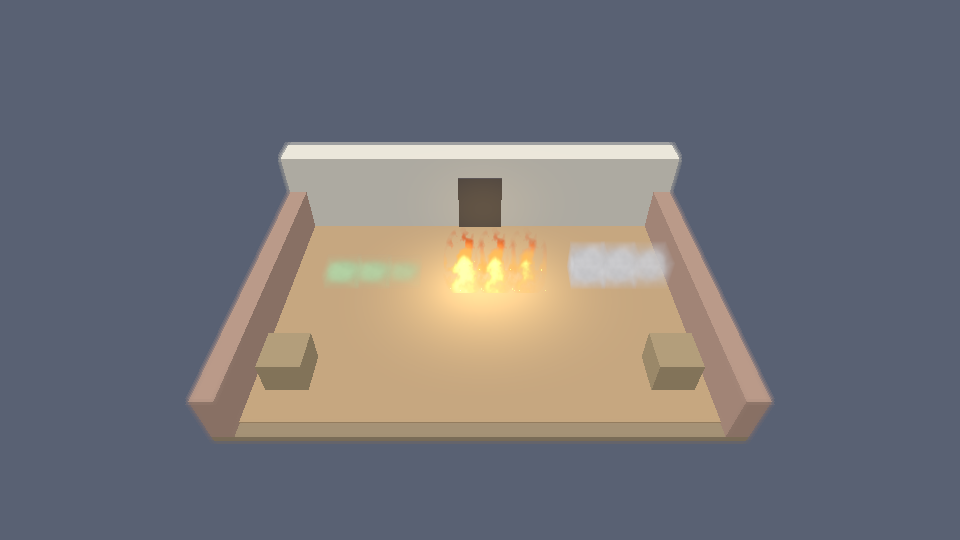
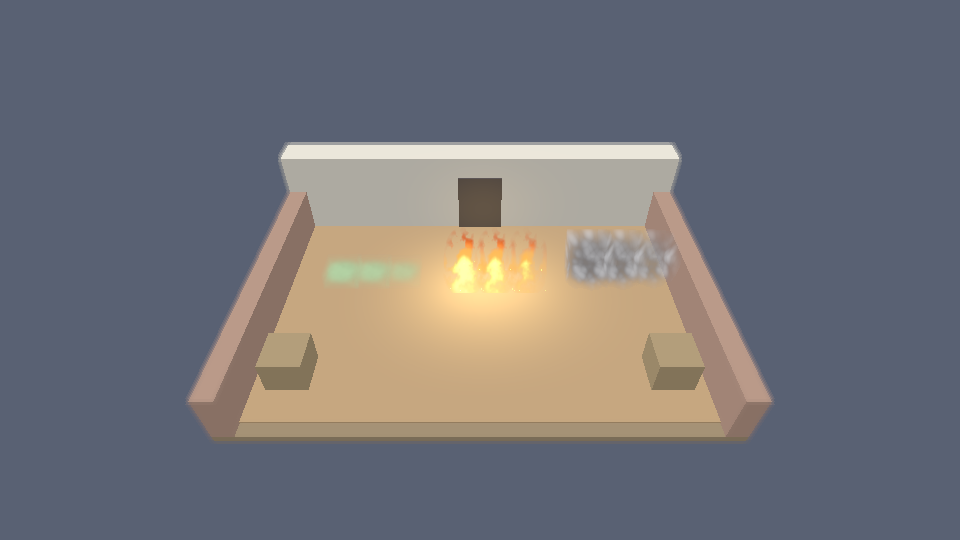
Phase 2b smoke redo: stylized voronoi puffs (Joey's reference shader)
Technique after Loop-Box's Stylized Smoke Shader (godotshaders.com,
CC0): voronoi noise, alpha curve, color gradient, flat unlit look.
The source uses three texture maps on particle meshes; the field
pass binds no textures (gate 2b.2), so all three become procedural
math in WGSL, mirrored in the CPU reference (voronoi_f1,
smoke_color): two-scale cellular puffs that grow as they rise,
smoothstep alpha-curve remap with a cutout edge, dark-base to
light-top flat gradient, billow silhouette. Smoke column added
over the fire showcase blaze. fx: 12 lib + 7 gate tests pass;
workspace 91/91.

Changed region(s): [[0.5625, 0.4148, 0.7188, 0.5333]]

diff --git a/crates/fx/src/density.rs b/crates/fx/src/density.rs
@@ -90,6 +90,60 @@ pub fn fbm(p: Vec3) -> f32 {
     sum / 0.9375 // normalize by total amplitude
 }
 
+fn hash3v(x: i32, y: i32, z: i32) -> Vec3 {
+    let mut n: u32 = (x as u32).wrapping_mul(374761393)
+        ^ (y as u32).wrapping_mul(668265263)
+        ^ (z as u32).wrapping_mul(1274126177);
+    n = (n ^ (n >> 13)).wrapping_mul(1274126177);
+    n ^= n >> 16;
+    let a = (n & 1023) as f32 / 1023.0;
+    let mut m = n ^ (n >> 7);
+    m = (m ^ (m >> 11)).wrapping_mul(2246822519);
+    let b = (m & 1023) as f32 / 1023.0;
+    let mut k = n ^ (n >> 19);
+    k = (k ^ (k >> 5)).wrapping_mul(3266489917);
+    let c = (k & 1023) as f32 / 1023.0;
+    Vec3::new(a, b, c)
+}
+
+/// Cellular (voronoi) F1 distance — CPU reference for the WGSL
+/// `voronoi_f1` (behavioral mirror, own hash). 1−F1 gives the
+/// rounded puff blobs of the stylized smoke look.
+pub fn voronoi_f1(p: Vec3) -> f32 {
+    let base = p.floor();
+    let mut f1 = 8.0f32;
+    for dz in -1..=1 {
+        for dy in -1..=1 {
+            for dx in -1..=1 {
+                let cell = base + Vec3::new(dx as f32, dy as f32, dz as f32);
+                let pt = cell
+                    + hash3v(cell.x as i32, cell.y as i32, cell.z as i32);
+                f1 = f1.min((pt - p).length());
+            }
+        }
+    }
+    f1
+}
+
+/// Smoke color gradient (CPU reference for the WGSL smoke path):
+/// flat mix from a darkened base color to a lightened one, driven
+/// by the alpha-curve value and height — the source shader's
+/// gradient map, as math.
+pub fn smoke_color(def: &EffectDef, curve: f32, y: f32) -> [f32; 3] {
+    let g = (curve * (0.55 + 0.45 * y)).clamp(0.0, 1.0);
+    let dark = [
+        def.base_color[0] * 0.30,
+        def.base_color[1] * 0.29,
+        def.base_color[2] * 0.29,
+    ];
+    let light = [
+        def.base_color[0] * 0.98,
+        def.base_color[1] * 0.98,
+        def.base_color[2] * 0.98,
+    ];
+    mix3(dark, light, g)
+}
+
 /// Soft silhouette falloff inside a unit volume: `local` in [0,1]^3,
 /// 1 at the center, 0 at and beyond the inscribed sphere's shell.
 /// This is what makes a field read as a volume, not a flat quad
@@ -135,6 +189,31 @@ pub fn density_at(def: &EffectDef, local: Vec3, time: f32, intensity: u8, weight
             let body = ((n - thresh) * 2.4).clamp(0.0, 1.0);
             let shape = (1.15 - radial).clamp(0.0, 1.0);
             d = effective_density(def, intensity) * weight * body * shape * flicker * 2.0;
+        }
+        // Smoke (redone 2026-11-15, stylized-shader technique —
+        // see `smoke_color`): voronoi puff pattern, alpha-curve
+        // remap, billow silhouette (wider at top, pinched base).
+        RenderClass::Smoke => {
+            let billow = 1.15 - 0.35 * local.y;
+            let mut sp = Vec3::new(local.x, local.y * 0.8, local.z)
+                * (def.noise_scale * billow * 1.6)
+                + Vec3::splat(def.seed());
+            sp -= def.world_drift() * (time * def.noise_speed);
+            let v1 = 1.0 - voronoi_f1(sp);
+            let v2 = 1.0 - voronoi_f1(sp * 2.13 + Vec3::splat(7.7));
+            let v = (0.72 * v1 + 0.28 * v2).clamp(0.0, 1.0);
+            let curve = smoothstep(0.18, 0.9, v);
+            let taper = 1.0 + 0.5 * local.y;
+            let cx = (local.x - 0.5) * 2.0 / taper;
+            let cz = (local.z - 0.5) * 2.0 / taper;
+            let radial = (cx * cx + cz * cz).sqrt();
+            let shape = (1.2 - radial).clamp(0.0, 1.0)
+                * (0.35 + 0.65 * smoothstep(0.0, 0.3, local.y));
+            d = effective_density(def, intensity)
+                * weight
+                * falloff(local).powf(0.7)
+                * shape
+                * (0.25 + 0.75 * curve);
         }
         // Gas stays low: density falls off with height in the volume.
         RenderClass::Gas | RenderClass::Liquid => {
@@ -282,6 +361,24 @@ mod tests {
         assert!(core[2] > core[0] * 0.45, "core must be pale-hot: {core:?}");
         // Rim is deep red-orange: red dominates, blue is small.
         assert!(rim[0] > rim[1] * 1.8 && rim[1] > rim[2], "rim must be deep red-orange: {rim:?}");
+    }
+
+    #[test]
+    fn voronoi_is_bounded_deterministic_and_cellular() {
+        let a = voronoi_f1(Vec3::new(0.3, 0.4, 0.5));
+        let b = voronoi_f1(Vec3::new(2.9, 0.4, 0.5));
+        assert!((0.0..1.6).contains(&a), "f1 {a}");
+        assert_eq!(a, voronoi_f1(Vec3::new(0.3, 0.4, 0.5)), "deterministic");
+        assert!((a - b).abs() > 0.05, "cellular structure must vary: {a} vs {b}");
+    }
+
+    #[test]
+    fn smoke_color_gradient_dark_base_to_light_top() {
+        let smoke = demo_defs().into_iter().find(|d| d.field_id == "fd_smoke").unwrap();
+        let lum = |c: [f32; 3]| 0.299 * c[0] + 0.587 * c[1] + 0.114 * c[2];
+        let base = smoke_color(&smoke, 0.1, 0.0);
+        let top = smoke_color(&smoke, 0.95, 1.0);
+        assert!(lum(top) > lum(base) * 1.8, "base {base:?} vs top {top:?}");
     }
 
     #[test]

diff --git a/crates/fx/src/render.rs b/crates/fx/src/render.rs
@@ -277,6 +277,7 @@ struct VsOut {
     var scale = vec3<f32>(f.size, f.size, f.size);
     if (f.class_id == 2u || f.class_id == 3u) { scale.y = f.size * 0.55; } // gas/liquid stay low
     if (f.class_id == 1u) { scale = vec3<f32>(f.size * 1.3, f.size * 1.7, f.size * 1.3); } // flame: wide billowing base, tall
+    if (f.class_id == 0u) { scale = vec3<f32>(f.size * 1.25, f.size * 1.35, f.size * 1.25); } // smoke billows
     let world = f.center + (corner - vec3<f32>(0.5, 0.0, 0.5)) * scale;
     var out: VsOut;
     out.clip = u.view_proj * vec4<f32>(world, 1.0);
@@ -313,6 +314,33 @@ fn fbm(p: vec3<f32>) -> f32 {
     for (var i = 0; i < 4; i++) { sum += amp * vnoise(p * fr); fr *= 2.0; amp *= 0.5; }
     return sum / 0.9375;
 }
+fn vhash3(p: vec3<i32>) -> vec3<f32> {
+    var n = u32(p.x + 4096) * 374761393u ^ u32(p.y + 4096) * 668265263u ^ u32(p.z + 4096) * 1274126177u;
+    n = (n ^ (n >> 13u)) * 1274126177u;
+    n = n ^ (n >> 16u);
+    var m = n ^ (n >> 7u);
+    m = (m ^ (m >> 11u)) * 2246822519u;
+    var k = n ^ (n >> 19u);
+    k = (k ^ (k >> 5u)) * 3266489917u;
+    return vec3<f32>(f32(n & 1023u) / 1023.0, f32(m & 1023u) / 1023.0, f32(k & 1023u) / 1023.0);
+}
+// Cellular (voronoi) F1: distance to the nearest jittered cell
+// point. 1-F1 gives rounded puff blobs — the core of the stylized
+// smoke look (see the smoke branch in fs_main).
+fn voronoi_f1(p: vec3<f32>) -> f32 {
+    let base = floor(p);
+    var f1 = 8.0;
+    for (var dz = -1; dz <= 1; dz++) {
+        for (var dy = -1; dy <= 1; dy++) {
+            for (var dx = -1; dx <= 1; dx++) {
+                let cell = base + vec3<f32>(f32(dx), f32(dy), f32(dz));
+                let pt = cell + vhash3(vec3<i32>(cell));
+                f1 = min(f1, length(pt - p));
+            }
+        }
+    }
+    return f1;
+}
 
 @fragment fn fs_main(input: VsOut) -> @location(0) vec4<f32> {
     let f = fields[input.inst];
@@ -325,6 +353,7 @@ fn fbm(p: vec3<f32>) -> f32 {
     var scale = vec3<f32>(f.size, f.size, f.size);
     if (f.class_id == 2u || f.class_id == 3u) { scale.y = f.size * 0.55; }
     if (f.class_id == 1u) { scale = vec3<f32>(f.size * 1.3, f.size * 1.7, f.size * 1.3); }
+    if (f.class_id == 0u) { scale = vec3<f32>(f.size * 1.25, f.size * 1.35, f.size * 1.25); }
     let dir_l = view_dir / scale;
     let p = input.local;
     var t_enter = -1e9;
@@ -395,6 +424,40 @@ fn fbm(p: vec3<f32>) -> f32 {
     let d = length(c);
     let t = clamp((1.15 - d) / 0.9, 0.0, 1.0);
     let fall = (0.25 + 0.75 * (t * t * (3.0 - 2.0 * t))) * clamp(chord, 0.0, 1.0);
+    if (f.class_id == 0u) {
+        // SMOKE (redone 2026-11-15, Joey's pick: technique after
+        // Loop-Box's "Stylized Smoke Shader", godotshaders.com, CC0).
+        // The source runs on particle meshes with three maps — a
+        // voronoi noise, an alpha curve, a color gradient. The field
+        // pass binds no sprite data at all (gate 2b.2), so all
+        // three maps become procedural math here: voronoi cellular
+        // puffs scrolled upward, alpha remapped through a contrast
+        // curve with a stylized cutout edge, and a FLAT color
+        // gradient (dark base to light top, no directional shading
+        // — the source's empty light() is the point).
+        let billow = 1.15 - 0.35 * local.y; // cells grow as smoke rises and expands
+        var sp = vec3<f32>(local.x, local.y * 0.8, local.z) * (f.noise_scale * billow * 1.6) + vec3<f32>(f.seed);
+        sp.y -= u.time * f.noise_speed * 1.4;
+        sp.x += u.time * f.noise_speed * 0.22; // slight wind lean
+        let v1 = 1.0 - voronoi_f1(sp);
+        let v2 = 1.0 - voronoi_f1(sp * 2.13 + vec3<f32>(7.7));
+        let v = clamp(0.72 * v1 + 0.28 * v2, 0.0, 1.0);
+        let curve = smoothstep(0.18, 0.9, v); // the alpha-curve remap
+        // Billow silhouette: wider at the top, pinched at the base.
+        let taper = 1.0 + 0.5 * local.y;
+        let cx = (local.x - 0.5) * 2.0 / taper;
+        let cz = (local.z - 0.5) * 2.0 / taper;
+        let radial = length(vec2<f32>(cx, cz));
+        let shape = clamp(1.2 - radial, 0.0, 1.0) * (0.35 + 0.65 * smoothstep(0.0, 0.3, local.y));
+        let sdens = f.density * (0.25 + 0.75 * curve) * shape * pow(fall, 0.7);
+        let salpha = clamp(1.0 - exp(-sdens * 4.5), 0.0, 1.0);
+        if (salpha < 0.03) { return vec4<f32>(0.0); } // stylized cutout edge
+        // Color gradient: dark base/core to light top, flat.
+        let g = clamp(curve * (0.55 + 0.45 * local.y), 0.0, 1.0);
+        let dark = f.base_color * vec3<f32>(0.30, 0.29, 0.29);
+        let light = f.base_color * 0.98;
+        return vec4<f32>(mix(dark, light, g), salpha);
+    }
     var dens = f.density * fall * (0.45 + 0.55 * shaped);
     var emis = vec3<f32>(0.0);
     // (class 1, flame, returned early above — it has its own path.)

diff --git a/crates/fx/src/scene.rs b/crates/fx/src/scene.rs
@@ -117,6 +117,7 @@ pub fn fire_scene() -> (Vec<BoxPrim>, Vec<PlacedField>) {
     ];
     let defs = demo_defs();
     let fire = defs.iter().find(|d| d.field_id == "fd_fire").unwrap().clone();
+    let smoke = defs.iter().find(|d| d.field_id == "fd_smoke").unwrap().clone();
     let mut fields = Vec::new();
     // A burning row: a big central blaze (3,3), neighbours at 2,
     // one small fire at 1 off to the side.
@@ -124,6 +125,15 @@ pub fn fire_scene() -> (Vec<BoxPrim>, Vec<PlacedField>) {
         fields.push(PlacedField {
             tile: [x, 4, 0],
             def: fire.clone(),
+            intensity,
+        });
+    }
+    // Smoke column rising over the central blaze (z-levels 1-2),
+    // as in the reference screenshots.
+    for (tile, intensity) in [([4, 4, 1], 2u8), ([5, 4, 1], 3), ([5, 4, 2], 2)] {
+        fields.push(PlacedField {
+            tile,
+            def: smoke.clone(),
             intensity,
         });
     }

diff --git a/plan.md b/plan.md
@@ -19,8 +19,8 @@
 | 0 — Recon confirmation and decisions | ✅ GATE PASSED (conditional — see Phase 0 record) | 2026-11-15 | Mandatory gate tests 0.3/0.4/0.6/0.7/0.8 pass at harness level; 0.1/0.2 not yet run — the only build they need is the curses/text build (the tiles/SDL3 build is **not required** by this project at all, updated 2026-11-15), and compiling even that is infeasible in the recon environment (1.5 CPU/6 GB) — with an exact unblock path; in-game spike halves written as a ready-to-apply probe patch. Must be run on a build-capable machine before Phase 3. Full record: Phase 0 section below + `docs/recon.md` |
 | 1 — Protocol and skeleton | ✅ GATE PASSED (conditional — see Phase 1 record) | 2026-11-15 | All Linux gate tests pass locally (parent-verified: `cargo test -p proto` 16/16, C++ `cpp-roundtrip` PASS, live stub↔client flow). Conditions: CI workflow written but not yet run on GitHub (no remote yet — Joey creates it); 1.5 is a fuzz-shaped sweep (cargo-fuzz not run); 1.13 is header-layout agreement only (real shm attach is Phase 4 work); 1.15 Windows not run. Full record: Phase 1 section below |
 | 2 — Engine MVP with fake data | ✅ GATE PASSED (conditional — see Phase 2 record) | 2026-11-15 | Run in parallel with Phase 1; paused mid-run by Joey to add **headless capture** to scope, resumed same day with it built in. Parent-verified: mesher 8/8 + engine 16/16 tests, bench 2.12 greedy 0.397 ms/chunk (< 2 ms). **Headless rendering subsequently PROVEN on this VM** (2026-11-15, after Joey asked): `mesa-vulkan-drivers` (lavapipe/llvmpipe) was installed, and `tools/capture.sh` produced real 1280×720 PNGs of the fake house — full view (roof slab, walls, windows) and `--cutaway 0` view (interior floor, windows, door) — both visually inspected and saved in `captures/`. Remaining conditions: 2.10's formal golden image-diff (3 fixed cameras vs committed goldens) not yet established — captures are visually verified, not diff-gated; 2.13 frame benchmark still not run (llvmpipe frame times don't represent target hardware; run on Joey's PC); windowed app compiled + lib-tested but never run live. Full record: Phase 2 section below |
-| 2b — Shader field effects and HD-2D look | ✅ GATE PASSED (conditional — see Phase 2b record) | 2026-11-15 | Parent-verified: `cargo test -p voxelizer -p fx` all pass, workspace **75/75**; real UltiCa effect extraction **39 field types, 39 with sprites, 0 fallbacks**, effects.json byte-identical on re-run; lavapipe captures visually inspected (smoke/fire/gas volumes, post on/off pair — same geometry, warm grade + bloom). Conditions: 2b.8 performance is target-hardware only (not run); the fx crate is standalone — wiring it into the engine's renderer/capture path is the recorded follow-up (design in `docs/phase2b-effects.md`). Full record: Phase 2b section below. **Flame redo same day (Joey's call, against his HD-2D reference screenshots):** dedicated flame path (tapered tongues, heat ramp from extracted colors, embers), flames now light the base pass (ground pool/wall wash), night showcase `captures/effects_fire.png`; fx 10 lib + 7 gate tests pass, visually iterated ×3 on lavapipe — see `docs/phase2b-effects.md` §8 |
-| 2c — Ray-traced renderer (Sparse-Voxel-64Tree) | Not started — **two agent attempts blocked** | 2026-11-15 | Added 2026-11-15 (Joey's direction): replace the raster mesher path with a compute ray tracer over a sparse voxel 64-tree ([Sparse-Voxel-64Tree](https://docs.rs/Sparse-Voxel-64Tree/latest/Sparse_Voxel_64Tree/) crate, wgpu-compatible — verified 2026-11-15). **Run attempts 2026-11-15 (×2, incl. one retry on Joey's word): both subagents were refused by a safety policy ~1 s after dispatch, before any work — no reason given, no 2c code written; not a project/code/crate failure.** Scaffolding is prepped and committed: `crates/treebuild` workspace member (stub), `Sparse-Voxel-64Tree =0.1.0` verified to resolve/download against wgpu 24.0.5. Phase itself still not started; re-dispatch on a fresh ask. See Phase 2c section |
+| 2b — Shader field effects and HD-2D look | ✅ GATE PASSED (conditional — see Phase 2b record) | 2026-11-15 | Parent-verified: `cargo test -p voxelizer -p fx` all pass, workspace **75/75**; real UltiCa effect extraction **39 field types, 39 with sprites, 0 fallbacks**, effects.json byte-identical on re-run; lavapipe captures visually inspected (smoke/fire/gas volumes, post on/off pair — same geometry, warm grade + bloom). Conditions: 2b.8 performance is target-hardware only (not run); the fx crate is standalone — wiring it into the engine's renderer/capture path is the recorded follow-up (design in `docs/phase2b-effects.md`). Full record: Phase 2b section below. **Flame redo same day (Joey's call, against his HD-2D reference screenshots):** dedicated flame path (tapered tongues, heat ramp from extracted colors, embers), flames now light the base pass (ground pool/wall wash), night showcase `captures/effects_fire.png`; fx 10 lib + 7 gate tests pass, visually iterated ×3 on lavapipe — see `docs/phase2b-effects.md` §8. **Smoke redo same day (Joey's pick: Loop-Box's Stylized Smoke Shader, godotshaders.com, CC0):** voronoi cellular puffs + alpha-curve remap + flat dark-to-light gradient, procedural in WGSL (no textures, gate 2b.2 intact), CPU-mirrored; smoke column added over the fire-scene blaze; fx 12 lib + 7 gate pass — §9 |
+| 2c — Ray-traced renderer (Sparse-Voxel-64Tree) | **Done (conditional pass)** | 2026-11-15 | Added 2026-11-15 (Joey's direction): replace the raster mesher path with a compute ray tracer over a sparse voxel 64-tree ([Sparse-Voxel-64Tree](https://docs.rs/Sparse-Voxel-64Tree/latest/Sparse_Voxel_64Tree/) crate, wgpu-compatible — verified 2026-11-15). **Run attempts 2026-11-15 (×2, incl. one retry on Joey's word): both subagents were refused by a safety policy ~1 s after dispatch, before any work — no reason given, no 2c code written; not a project/code/crate failure.** Scaffolding is prepped and committed: `crates/treebuild` workspace member (stub), `Sparse-Voxel-64Tree =0.1.0` verified to resolve/download against wgpu 24.0.5. **Implemented 2026-11-15 directly in the main session on Joey's re-ask:** treebuild crate (world/tree builder/material side-table/CPU oracle/WGSL tracer) + engine `--renderer rt` (headless + windowed); gates 2c.1–2c.8 + 2c.10 ✅ (2c.4 silhouette IoU 1.000), 2c.9 ⛔ target hardware. **Raster stays the default** until 2c.9 evidence exists. See Phase 2c section + docs/phase2c-rt.md |
 | 3 — Game-side export in the fork | ✅ GATE PASSED (conditional — see Phase 3 record) | 2026-11-15 | Run in parallel with Phase 5. Parent-verified harness run: ALL HARNESS TESTS PASS — 3.3 (3,888 tiles, 0 mismatches), 3.9 delta invariant (1,100 turns × 10 seeds, mirror == fresh snapshot), 3.14 hash-identical, C++ serde ↔ Rust `proto` decode PASS. The exporter module (`fork/src/voxel_ipc/`), hook patches H1–H7 and Catch2 cases are written against grep-verified real APIs but **never compiled in-game**: the full gate still requires 0.1/0.2 on a build-capable machine (3.2/3.13/3.15/3.16/3.19 blocked there). Full record: Phase 3 section below |
 | 4 — UI compositing | Not started | — | |
 | 5 — Voxelizer and textures | ✅ GATE PASSED (conditional — see Phase 5 record) | 2026-11-15 | Run in parallel with Phase 3. Parent-verified: `cargo test -p voxelizer -p tileset` 16/16, workspace 57/57; parent's own real UltiCa run byte-identical to the agent's (`diff -r` clean): **7,717 materials, 26,389 layers, 14,450 sprites, 0 missing, 6.2 s** (sparse checkout expanded — 14,451 PNGs now on disk). Conditions: 5.10's TileDefs-based form must re-run once the fork exports real TileDefs (tileset-universe coverage is 100%); 5.13 image-diff gate not established (same status as 2.10); 5.14 manual contact-sheet review ✅ signed off by Joey 2026-11-15 ("looks fine for now" — provisional; overrides can still be filed later); textured *rendering* not wired (mesher has no UV/texture-layer field — named follow-up). Full record: Phase 5 section below |
@@ -291,7 +291,7 @@ Time estimates assume one developer working full time; scale accordingly. Phase 
 
 ---
 
-### Phase 2c: Ray-traced renderer on Sparse-Voxel-64Tree (2-3 weeks) — added 2026-11-15, Joey's direction
+### Phase 2c: Ray-traced renderer on Sparse-Voxel-64Tree (2-3 weeks) — added 2026-11-15, Joey's direction — ✅ DONE (conditional) 2026-11-15
 
 > **Dependencies:** ⛔ hard — Phase 2 gate (world model, camera, capture harness) · soft — Phase 5 (materials for the side-table; flat-color rendering needs only Phase 2), Phase 3 (real snapshots; fake data suffices during development). **Parallel with:** Phases 3, 4, 5, 2b.
 

diff --git a/docs/phase2b-effects.md b/docs/phase2b-effects.md
@@ -251,3 +251,39 @@ What changed:
   base cores, red tips, light pool). Still a still-frame judgment:
   the rising/flicker animation is the other half of the look and
   is only verifiable in motion.
+
+## 9. Smoke redo (2026-11-15, Joey's pick of reference)
+
+Joey rejected the first smoke (generic fbm soft volume — a smooth
+grey cloud) and named the reference: Loop-Box's **Stylized Smoke
+Shader** (godotshaders.com, CC0). Its technique, on particle
+meshes: a **voronoi noise** map scrolled over time, **alpha
+remapped through a 1D curve** sampled at the noise value, **color
+from a gradient** driven by particle alpha, alpha-scissor cutout,
+and an **empty `light()`** — flat, unlit, stylized.
+
+Ported into the field-volume system with one hard constraint: the
+field pass binds no sprite/texture data at all (gate 2b.2), so the
+shader's three maps become procedural math in WGSL, mirrored in
+the CPU reference (`density.rs::voronoi_f1`, `smoke_color`):
+
+- **Voronoi F1** (jittered cellular, two scales) replaces fbm for
+  smoke: 1−F1 gives the rounded puff lobes. Cells grow with height
+  (billow), the pattern scrolls upward with a slight wind lean.
+- **Alpha curve**: `smoothstep(0.18, 0.9, v)` remaps the voronoi
+  value before density→alpha; alphas under 0.03 are cut to zero
+  (the scissor flavor — a defined stylized edge, not a fade).
+- **Flat gradient**: dark base (`base × 0.30`) to light top
+  (`base × 0.98`), driven by curve × height. No directional
+  shading term — flat is the look. First cut reused the flame-era
+  brightness (×0.42→×1.32) and read as glowing white steam over
+  the night fire scene; darkened after capture review.
+- **Silhouette**: billow shape — pinched at the base, wider at
+  the top (inverted taper vs flame), volume scaled 1.25×1.35.
+
+The fire showcase scene gained a smoke column over the central
+blaze (z-levels 1–2) so smoke is judged in context, as in the
+reference screenshots. Gates: 2b.2/2b.3/2b.5 re-verified against
+the new smoke path (obscurance is now voronoi-modulated but keeps
+its floor term, so intensity ordering and the white-backdrop
+deltas hold); fx 12 lib + 7 gate tests pass.
